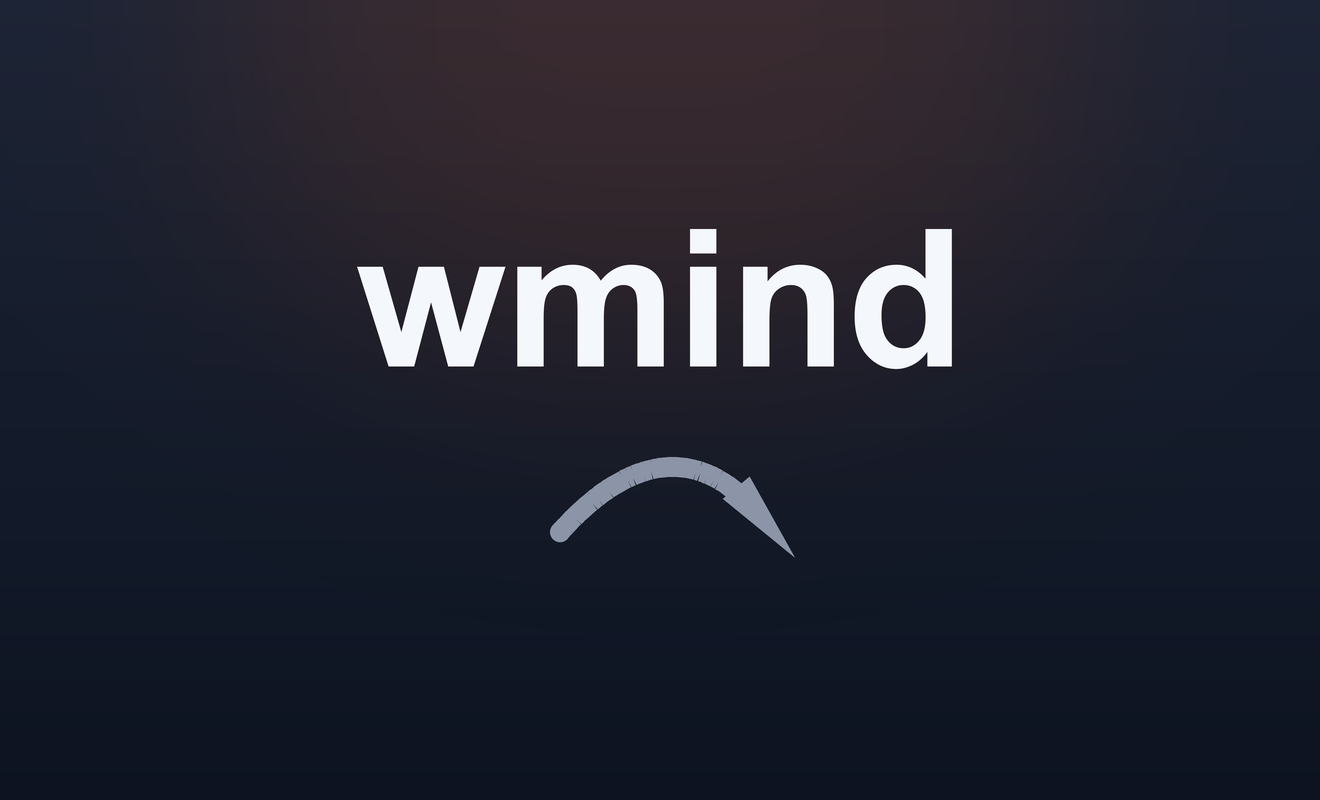
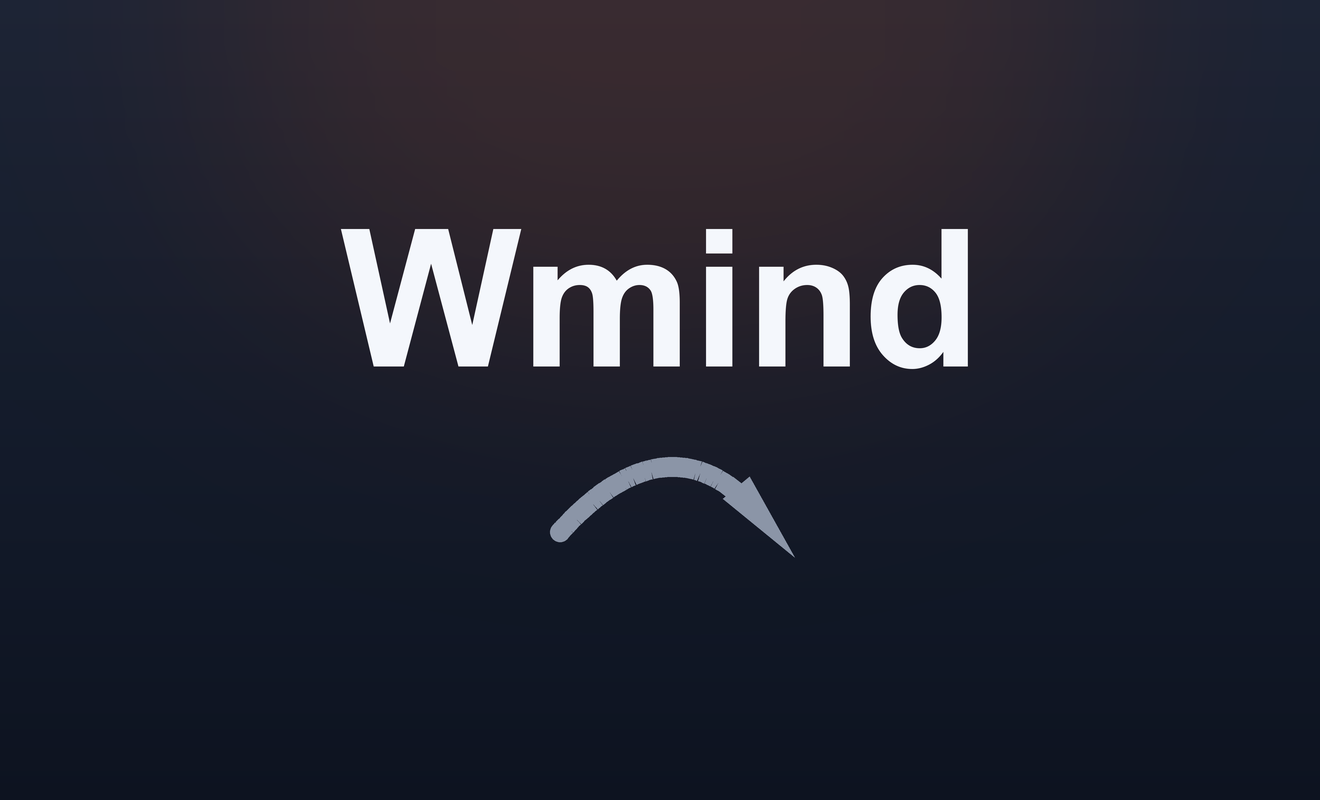
chore(desktop): 品牌名统一为 Wmind（卷名/词标/文件关联）

Changed region(s): [[0.2485, 0.2812, 0.7455, 0.4688]]

diff --git a/scripts/build-dmg-background.py b/scripts/build-dmg-background.py
@@ -10,7 +10,7 @@
 `tiffutil -cathidpicheck` 合成一个多分辨率 TIFF，Finder 自动挑清晰的那份。
 
 坐标约定（与 build-desktop.mjs 的 AppleScript 一致）：
-  wmind.app     (200, 300) pt
+  Wmind.app     (200, 300) pt
   Applications  (460, 300) pt
 
 用法：python3 scripts/build-dmg-background.py
@@ -23,7 +23,7 @@ from pathlib import Path
 from PIL import Image, ImageDraw, ImageFilter, ImageFont
 
 ROOT = Path(__file__).resolve().parent.parent
-RESOURCES = ROOT / "backend" / "desktop" / "resources"
+RESOURCES = ROOT / "desktop" / "resources"
 
 W, H = 660, 400
 # 内容整体偏上：底部留白比顶部多，视觉重心在窗口中上部。
@@ -119,7 +119,7 @@ def render_raw(scale):
 
     # 品牌：只有一行文字（不再放图标，避免与下面真正的应用图标重复）。
     title_font = load_font(96 * scale)
-    text = "wmind"
+    text = "Wmind"
     text_w = draw.textlength(text, font=title_font)
     ascent, descent = title_font.getmetrics()
     baseline_y = 150 * scale - (ascent + descent) / 2
